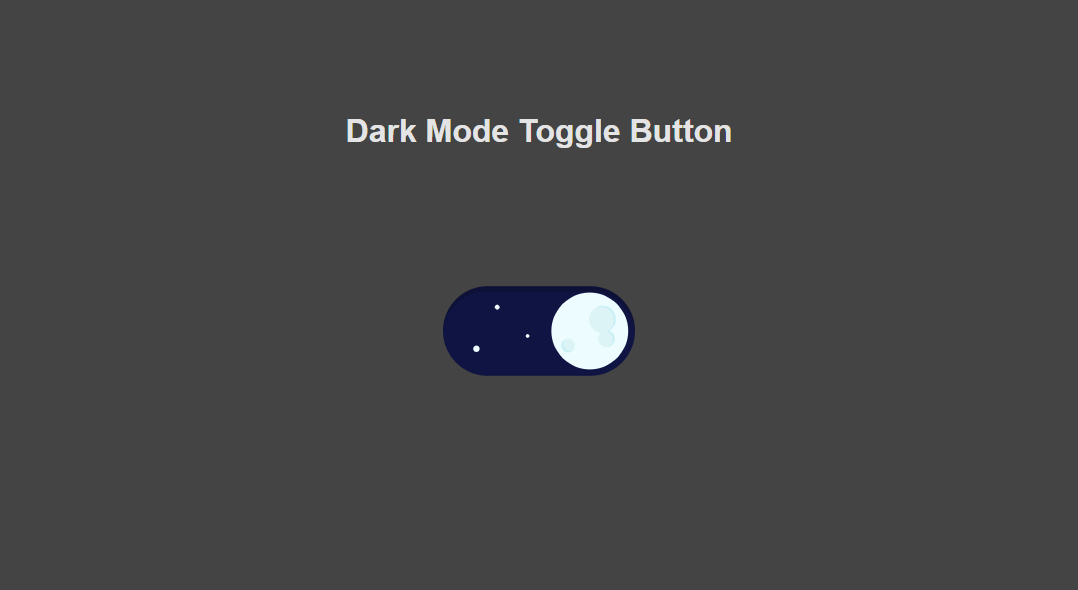
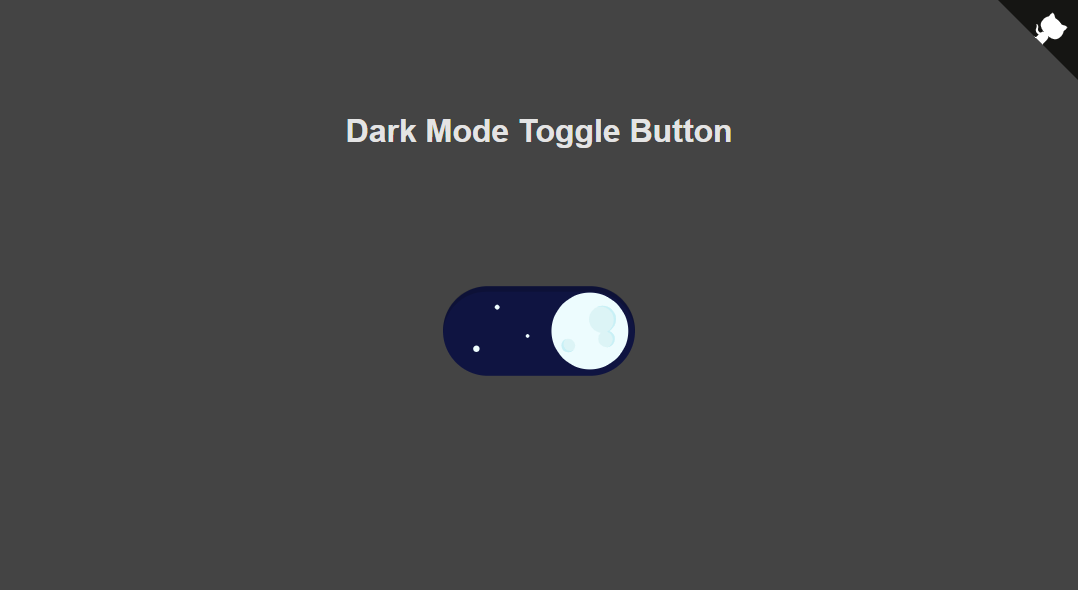
Added github corner

Changed region(s): [[0.9184, 0.0, 1.0, 0.122]]

diff --git a/index.html b/index.html
@@ -27,4 +27,10 @@
         </div>
     </div>
 </body>
+<script
+		data-label="Check out the GitHub repository!"
+		data-href="https://github.com/H0rn0chse/dark-mode-toggle"
+		data-target="_blank"
+		src="https://unpkg.com/github-corners@latest/dist/embed.min.js">
+	</script>
 </html>

diff --git a/README.md b/README.md
@@ -8,3 +8,4 @@ A simple toggle button, which can be used in any context. I've used the animatio
 ## Libraries
  * AnimationData [cawfree/react-dark-mode-toggle](https://github.com/cawfree/react-dark-mode-toggle)
  * Player [LottieFiles/lottie-player](https://github.com/LottieFiles/lottie-player)
+ * Github Corners [github.com/remarkablemark/github-corners](https://github.com/remarkablemark/github-corners)
